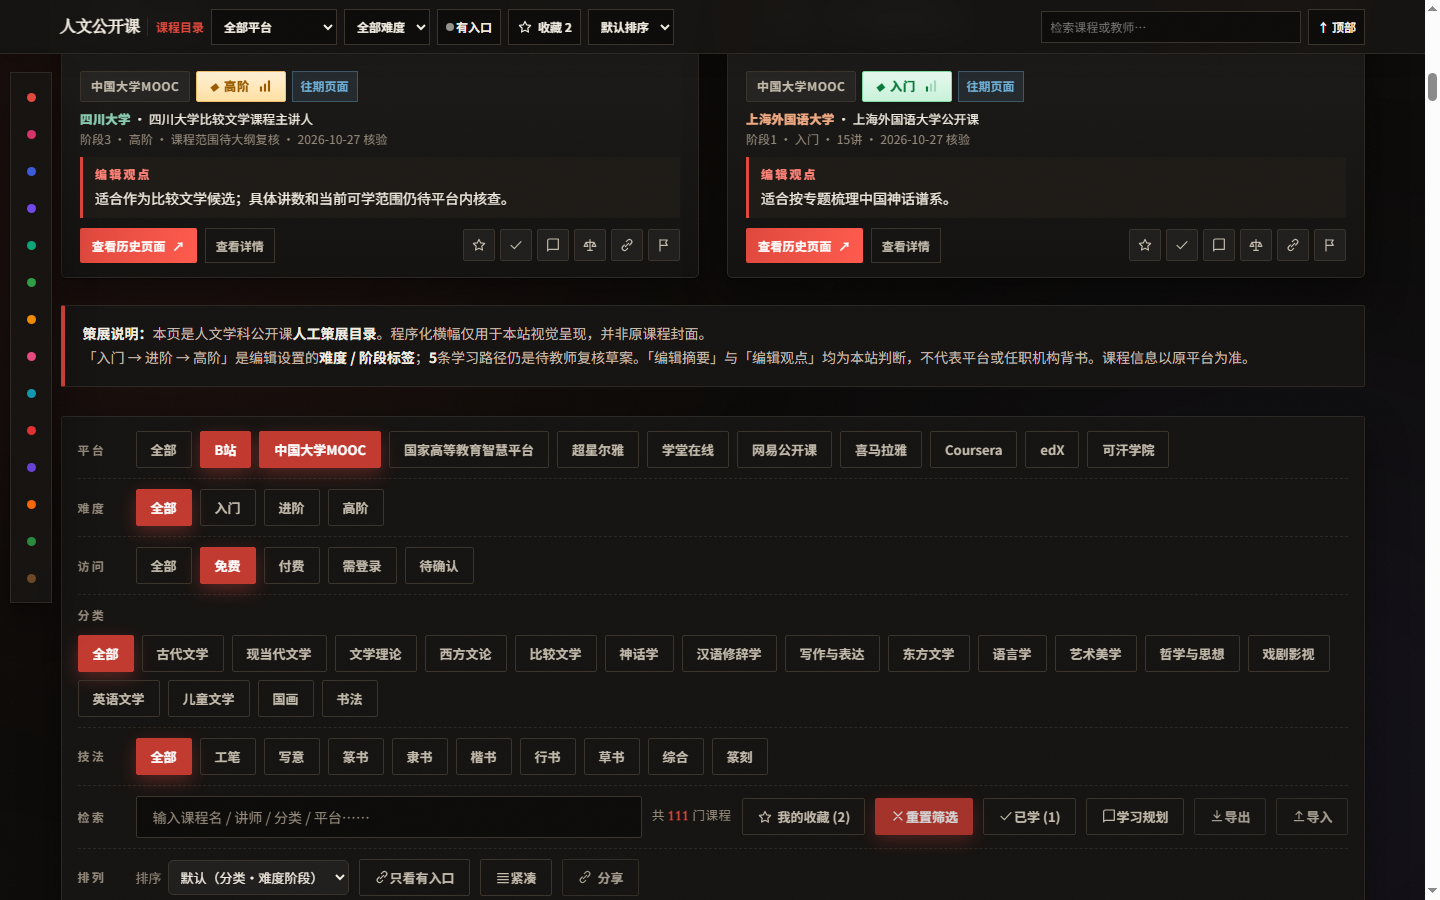
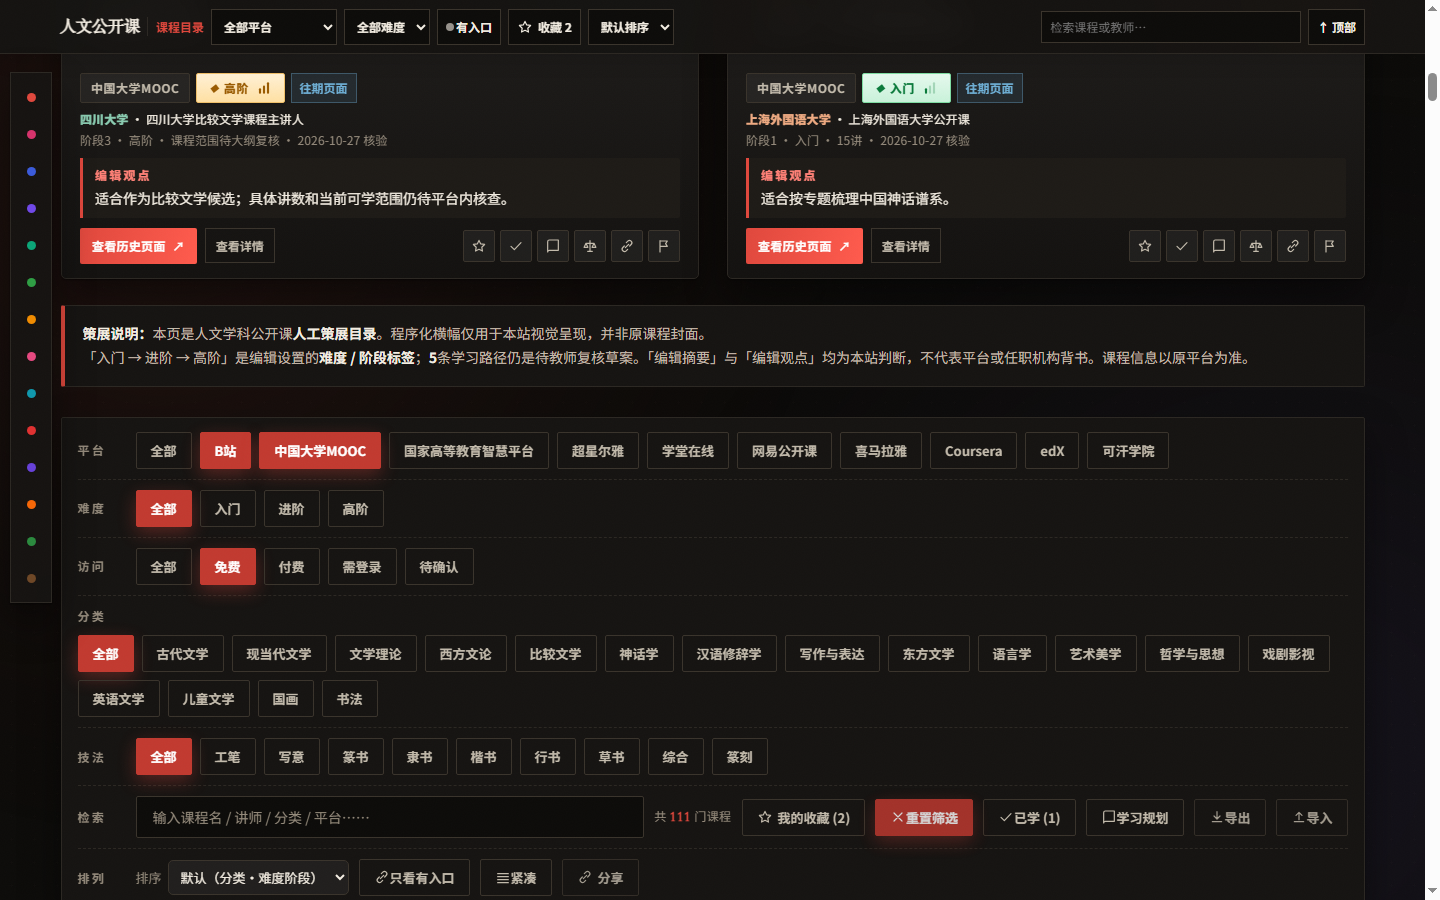
90分冲刺：huashu 两档标准落地（正文≥14/标签≥12）、字号档合并、间距归偶补漏、移动触控扩展；huashu 六维审美评分 82.8→91.9/100

diff --git a/index.html b/index.html
@@ -74,9 +74,9 @@
     --chip:#ffffff;
     --shadow:0 1px 2px rgba(60,40,20,.06),0 16px 38px rgba(60,40,20,.10);
     --shadow-hover:0 1px 2px rgba(60,40,20,.08),0 26px 56px rgba(60,40,20,.16);
-    --green:#3f7d33; --green-bg:rgba(63,125,51,.10); --green-bd:rgba(63,125,51,.30);
+    --green:#2d6b22; --green-bg:rgba(45,107,34,.12); --green-bd:rgba(45,107,34,.35);
     --blue:#2c6a96;  --blue-bg:rgba(44,106,150,.10); --blue-bd:rgba(44,106,150,.30);
-    --gold:#9a6f1f;  --gold-bg:rgba(154,111,31,.12); --gold-bd:rgba(154,111,31,.32);
+    --gold:#7d5a18;  --gold-bg:rgba(125,90,24,.12); --gold-bd:rgba(125,90,24,.35);
   }
 
   *{box-sizing:border-box;}
@@ -223,7 +223,7 @@
   }
   .notice b{color:var(--ink);}
   .notice .hl{color:var(--accent);font-weight:700;}
-  .notice code{background:var(--accent-soft);color:var(--accent);padding:1px 6px;border-radius:2px;font-size:12.5px;font-weight:700;}
+  .notice code{background:var(--accent-soft);color:var(--accent);padding:2px 6px;border-radius:2px;font-size:12px;font-weight:700;}
 
   /* ============ 筛选工具条 ============ */
   .toolbar{
@@ -265,7 +265,7 @@
   }
   .search::placeholder{color:var(--muted);}
   .search:focus{border-color:var(--accent);box-shadow:0 0 0 3px var(--accent-soft);}
-  .count{font-size:12.5px;color:var(--muted);margin-left:auto;letter-spacing:.04em;}
+  .count{font-size:12px;color:var(--muted);margin-left:auto;letter-spacing:.04em;}
   .count b{color:var(--accent);font-family:var(--font-serif);font-size:14px;}
 
   /* ============ 分类区块 ============ */
@@ -353,7 +353,7 @@
   .badge{font-size:12px;font-weight:700;letter-spacing:.04em;padding:4px 10px;border-radius:2px;border:1px solid transparent;}
   .badge.platform{background:var(--chip);color:var(--ink-soft);border-color:var(--line-strong);}
   /* 难度徽标——更醒目（渐变底 + 图标 + 投影） */
-  .badge.diff{display:inline-flex;align-items:center;gap:5px;font-size:12.5px;font-weight:800;letter-spacing:.03em;padding:4px 12px;border-radius:2px;box-shadow:0 1px 3px rgba(0,0,0,.14);}
+  .badge.diff{display:inline-flex;align-items:center;gap:5px;font-size:12px;font-weight:800;letter-spacing:.03em;padding:4px 12px;border-radius:2px;box-shadow:0 1px 3px rgba(0,0,0,.14);}
   .badge.diff .diff-ico{font-size:9px;line-height:1;transform:translateY(.5px);}
   .badge.diff-入门{color:#0b7a3b;background:linear-gradient(180deg,#e6f9ee,#c9f2da);border:1px solid #7fdda3;}
   .badge.diff-进阶{color:#1b4fc4;background:linear-gradient(180deg,#e6eeff,#c6d8ff);border:1px solid #8fb0f0;}
@@ -371,11 +371,11 @@
   .go.disabled{background:#c4c8ce;color:#fff;cursor:not-allowed;box-shadow:none;}
   .go.disabled:hover{transform:none;box-shadow:none;background:#c4c8ce;}
   .meta{font-size:12px;color:var(--muted);margin:0 0 2px;line-height:1.35;letter-spacing:.01em;}
-  .meta.teacher{color:var(--ink);font-size:12.5px;margin:0 0 4px;line-height:1.4;}
+  .meta.teacher{color:var(--ink);font-size:12px;margin:0 0 4px;line-height:1.4;}
   .meta.teacher b{color:color-mix(in srgb,var(--cat-color,var(--accent)) 45%,var(--ink));font-weight:800;}
   /* 综合评语（展签 / 美术馆标签式） */
   .intro{
-    display:none;font-size:12.5px;color:var(--ink-soft);line-height:1.62;
+    display:none;font-size:12px;color:var(--ink-soft);line-height:1.62;
     border-left:3px solid var(--cat-color,var(--accent));
     background:color-mix(in srgb,var(--cat-color,var(--accent)) 6%,transparent);
     padding:8px 12px;margin:10px 0;
@@ -401,11 +401,11 @@
   /* 卡片详情面板：系列条目 / 技法 / 载体 / 其他入口（展开后过渡显现） */
   .card-detail{overflow:hidden;max-height:0;opacity:0;margin:0;border-top:0 dashed transparent;padding-top:0;transition:max-height .2s ease,opacity .2s ease,margin .2s ease;}
   .card.is-expanded .card-detail{max-height:420px;opacity:1;margin:0 0 10px;border-top:1px dashed var(--line-strong);padding-top:8px;}
-  .detail-line{display:flex;flex-wrap:wrap;align-items:baseline;gap:6px;font-size:12.5px;color:var(--ink-soft);margin:0 0 8px;line-height:1.5;}
+  .detail-line{display:flex;flex-wrap:wrap;align-items:baseline;gap:6px;font-size:12px;color:var(--ink-soft);margin:0 0 8px;line-height:1.5;}
   .detail-line:last-child{margin-bottom:0;}
   .detail-line .lbl{font-size:12px;letter-spacing:.18em;color:color-mix(in srgb,var(--cat-color,var(--accent)) 45%,var(--ink));font-weight:800;flex:none;}
   .detail-line .series-strong{color:var(--ink);font-weight:700;}
-  .tech-chip{border:1px solid var(--line-strong);color:var(--ink-soft);font-size:12px;padding:1px 8px;border-radius:2px;background:var(--surface-2);}
+  .tech-chip{border:1px solid var(--line-strong);color:var(--ink-soft);font-size:12px;padding:2px 8px;border-radius:2px;background:var(--surface-2);}
   .act.link-btn.copied{color:var(--accent);border-color:var(--accent);}
   /* 核验日期：卡片元信息的一部分，弱化处理 */
   .meta.verify{display:flex;align-items:center;gap:4px;font-size:12px;color:var(--muted);}
@@ -438,7 +438,7 @@
     margin-top:48px;padding-top:22px;
     font-size:13px;color:var(--muted);line-height:1.7;
   }
-  footer code{background:var(--accent-soft);color:var(--accent);padding:1px 6px;border-radius:2px;font-size:12px;font-weight:700;}
+  footer code{background:var(--accent-soft);color:var(--accent);padding:2px 6px;border-radius:2px;font-size:12px;font-weight:700;}
 
   /* ============ 视觉强化 · 再升级（极光 / 旋转描边 / 胶片质感） ============ */
 
@@ -593,7 +593,7 @@
   @keyframes cardIn{from{opacity:0;transform:translateY(24px);}to{opacity:1;transform:none;}}
 
   @media (max-width:560px){
-  .pill,.detail-btn,.path-course-ref,.alt-jump,.empty-clear,.pn-open{min-height:44px;}
+  .pill,.detail-btn,.path-course-ref,.alt-jump,.empty-clear,.pn-open,.nav-filter-btn,.nav-select,.scroll-top,.plan-btn{min-height:44px;}
   .pill{padding-top:8px;padding-bottom:8px;}
   .act{width:44px;height:44px;}
     .hero-inner{padding:0 18px 26px;}
@@ -647,7 +647,7 @@
   .card-actions .cmp-btn.active{color:#17668c;border-color:#6fb0d6;background:#d9f0fb;}
 
   /* 搜索关键词高亮 */
-  mark.hl-kw{background:linear-gradient(transparent 58%,rgba(255,211,78,.6) 0);color:inherit;padding:0 1px;border-radius:2px;}
+  mark.hl-kw{background:linear-gradient(transparent 58%,rgba(255,211,78,.6) 0);color:inherit;padding:0 2px;border-radius:2px;}
 
   /* 对比托盘 */
   .compare-tray{position:fixed;left:50%;bottom:18px;transform:translateX(-50%);z-index:60;max-width:min(960px,94vw);}
@@ -705,11 +705,11 @@
   .plan-notes li{display:flex;align-items:center;gap:10px;padding:8px 0;border-bottom:1px dashed var(--line);list-style:none;}
   .plan-notes{margin:0;padding:0;}
   .plan-notes b{font-size:13px;color:var(--ink);}
-  .plan-notes .pn-snip{flex:1;min-width:0;overflow:hidden;text-overflow:ellipsis;white-space:nowrap;font-size:12.5px;color:var(--ink-soft);}
+  .plan-notes .pn-snip{flex:1;min-width:0;overflow:hidden;text-overflow:ellipsis;white-space:nowrap;font-size:12px;color:var(--ink-soft);}
   .plan-notes .pn-date{font-size:12px;color:var(--muted);white-space:nowrap;}
   .pn-open{border:1px solid var(--line-strong);border-radius:8px;background:transparent;color:var(--accent);font-size:12px;padding:4px 10px;cursor:pointer;}
   .pn-open:hover{border-color:var(--accent);}
-  .plan-empty{font-size:12.5px;color:var(--muted);padding:10px 0;}
+  .plan-empty{font-size:12px;color:var(--muted);padding:10px 0;}
   /* —— 站内轻提示（替代 alert，与全站风格一致） —— */
   .toast-wrap{position:fixed;left:50%;bottom:24px;transform:translateX(-50%);z-index:90;
     display:flex;flex-direction:column;gap:8px;align-items:center;pointer-events:none;width:min(420px,92vw);}
@@ -728,7 +728,7 @@
   /* 单课模式：笔记编辑 + 打卡 + 提醒 */
   .plan-course-head{display:flex;align-items:baseline;gap:10px;margin:14px 0 4px;flex-wrap:wrap;}
   .plan-course-head b{font-family:var(--font-serif);font-size:17px;color:var(--ink);}
-  .plan-course-head span{font-size:12.5px;color:var(--muted);}
+  .plan-course-head span{font-size:12px;color:var(--muted);}
   .plan-textarea{width:100%;min-height:120px;resize:vertical;margin:10px 0 12px;padding:10px 12px;border-radius:10px;
     border:1px solid var(--line-strong);background:var(--surface);color:var(--ink);font:13.5px/1.7 var(--font-sans);}
   .plan-textarea:focus{outline:2px solid var(--accent-soft);border-color:var(--accent);}
@@ -784,7 +784,7 @@
   [data-density="compact"] .banner-teacher strong{font-size:14px;}
   [data-density="compact"] .banner-name{font-size:23px;}
   [data-density="compact"] .card-body{padding:8px 12px 12px;}
-  [data-density="compact"] .card-body .meta{margin-bottom:1px;font-size:12px;}
+  [data-density="compact"] .card-body .meta{margin-bottom:2px;font-size:12px;}
   [data-density="compact"] .card-body .intro{display:none;}
   [data-density="compact"] .badges{margin:8px 0 6px;gap:5px;}
   [data-density="compact"] .review{font-size:12px;margin:6px 0 8px;}
@@ -873,12 +873,12 @@
   .path-body{border-top:1px solid var(--line);padding:14px 16px 18px;}
   .path-body h4{margin:14px 0 8px;font-size:12px;color:var(--muted);text-transform:uppercase;letter-spacing:.08em;}
   .path-body h4:first-child{margin-top:0;}
-  .path-body ul{margin:0 0 14px;padding-left:18px;color:var(--ink-soft);font-size:12.5px;line-height:1.6;}
+  .path-body ul{margin:0 0 14px;padding-left:18px;color:var(--ink-soft);font-size:12px;line-height:1.6;}
   .path-node{padding:10px 0;border-top:1px dashed var(--line);}
   .path-node:first-of-type{border-top:0;}
   .path-node.is-done{opacity:.62;}
   .path-node-head{display:flex;align-items:start;gap:9px;}
-  .path-node-check{width:20px;height:20px;flex:none;margin-top:1px;accent-color:var(--accent);}
+  .path-node-check{width:20px;height:20px;flex:none;margin-top:2px;accent-color:var(--accent);}
   .path-node b{display:block;font-size:13px;margin-bottom:4px;}
   .path-node p{margin:0;color:var(--muted);font-size:12px;line-height:1.55;}
   .path-node-actions{display:flex;align-items:center;gap:8px;margin:8px 0 0 29px;}
@@ -902,7 +902,7 @@
     transition:.2s;
   }
   .recs-toggle:hover{ border-color:var(--accent); transform:translateY(-1px); box-shadow:var(--shadow); }
-  .recs-hint{ font-family:var(--font-sans); font-weight:600; font-size:12.5px; color:var(--muted); }
+  .recs-hint{ font-family:var(--font-sans); font-weight:600; font-size:12px; color:var(--muted); }
   .recs-panel{ margin-top:16px; }
   .recs-grid{display:grid;grid-template-columns:repeat(2,minmax(0,1fr));gap:18px 28px;}
   @media (max-width:720px){.recs-grid{grid-template-columns:1fr;}}
